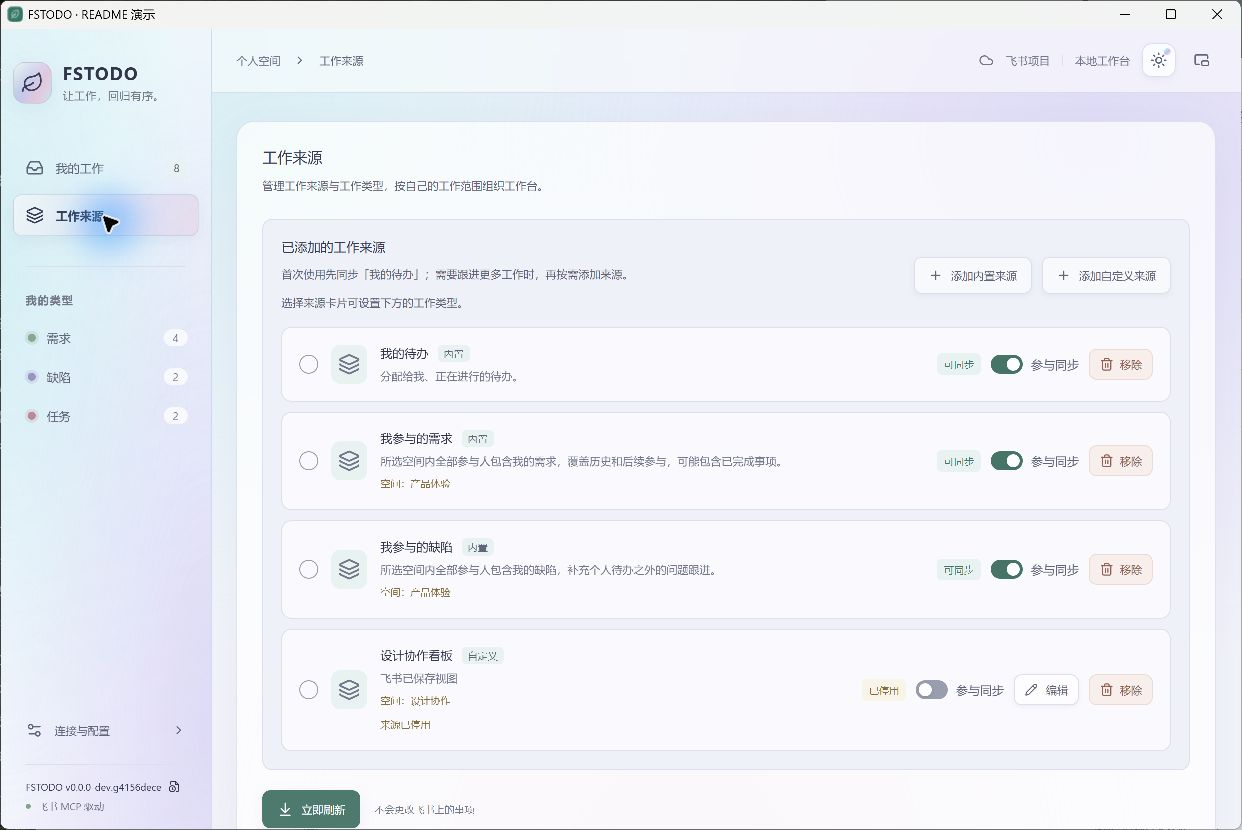
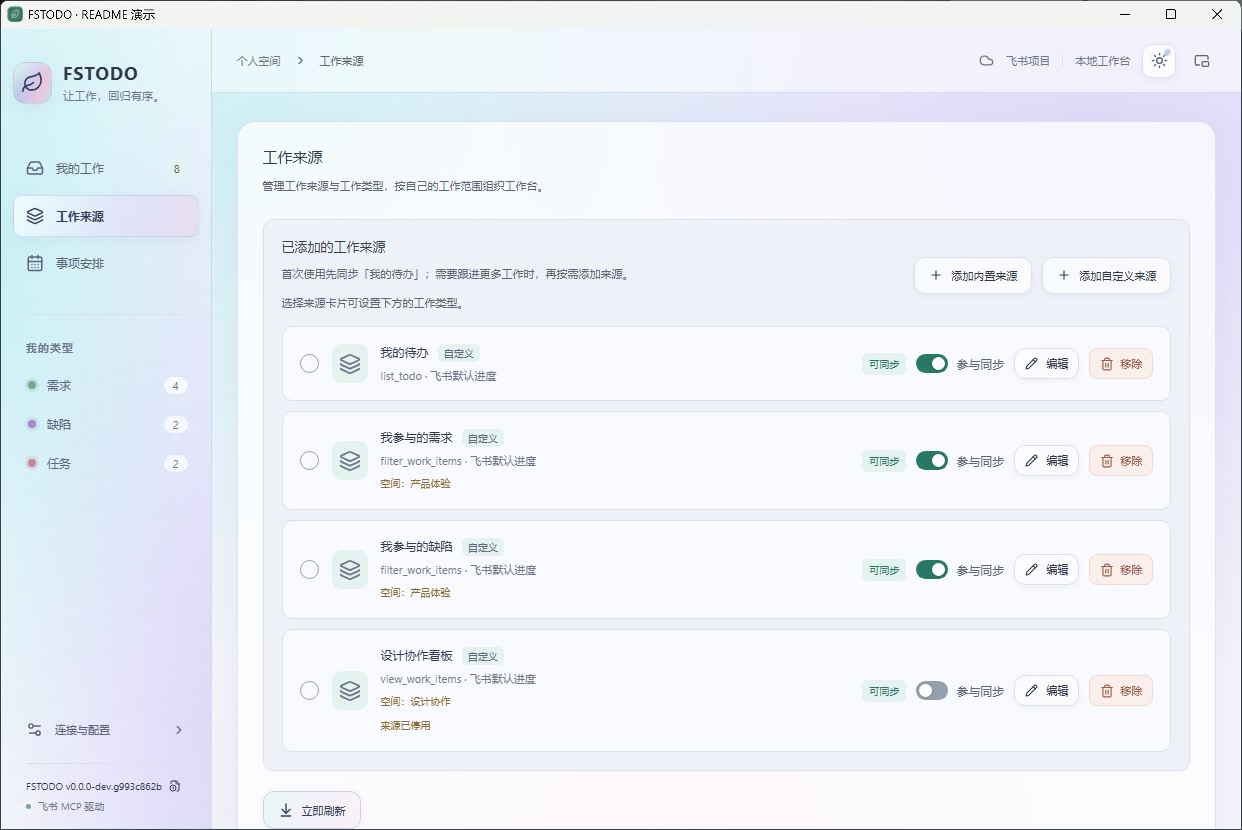
docs(README): 重点介绍事项安排工作台并更新软件演示截图
- 在首页功能总览中新增事项安排工作台，并补充筛选方案、新建事项与关联缺陷、常显字段等已交付能力说明

- 新增「事项安排：从个人待办直达节点排期」章节，重点介绍三栏排期工作台、多节点同排分轨、快捷落位及提交前二次确认

- 新增事项安排三栏工作台与排期变更核对弹窗截图，并同步更新完整工作台、工作来源与暗黑主题演示截图

diff --git a/README.md b/README.md
@@ -2,7 +2,7 @@
 
 **让工作，回归有序。**
 
-通过飞书项目 MCP，把与你有关的需求、缺陷和任务集中到本地桌面清单。少切页面，快速找到自己的工作，按需查看详情、填写字段和推进流程。
+通过飞书项目 MCP，把与你有关的需求、缺陷和任务集中到本地桌面工作台。少切页面，快速找到自己的工作，集中规划节点排期、按需查看详情、新建事项、填写字段和推进流程。
 
 [下载安装](https://github.com/lihuabeass-art/feishu-project-mcp-workbench/releases/latest) · [使用与开发文档](docs/README.md) · [产品立意](docs/design/产品定位与演进方向.md) · [MIT 开源协议](LICENSE)
 
@@ -15,16 +15,33 @@
 | 功能 | 可以做什么 |
 | --- | --- |
 | 个人工作清单 | 汇总我的待办、我参与的需求与缺陷；也可配置类型查询或飞书普通已保存视图 |
-| 搜索与筛选 | 按标题、编号、空间或项目搜索，组合空间、项目、类型、流程节点与状态筛选 |
-| 完整事项详情 | 分层查看负责人、角色、业务字段、正文、链接和图片；图片可缩放、拖动预览 |
+| 事项安排工作台 | 从已启用来源读取事项与节点排期，提供待排与跨周池、单周／双周多节点甘特日历、右侧排期检查器与提交前差异核对 |
+| 搜索与筛选方案 | 按标题、编号、空间或项目搜索，组合空间、项目、类型、流程节点与状态筛选；支持保存个人筛选方案并设为默认打开 |
+| 完整事项详情 | 分层查看负责人、角色、业务字段、正文、链接和图片；支持配置详情常显字段、一键打开飞书原页面及图片缩放拖动预览 |
+| 流程与字段填写 | 根据远端配置显示可用动作与表单（含富文本图文编辑），支持本机草稿、提交前完整核对、写后远端回读核验 |
+| 新建事项与关联缺陷 | 按已启用来源与类型动态加载创建表单，支持需求详情直接新建关联缺陷、本机持久草稿与未决创建记录核验 |
 | 手动与自动同步 | 缓存先展示，后台按来源检查；网络或接口失败时保留已有数据并支持重试 |
-| 流程与字段填写 | 根据远端配置显示可用动作与表单，支持本机草稿、提交前完整核对、写后远端回读核验 |
-| 工作类型管理 | 发现类型、按来源选择同步范围、自定义本机别名、隐藏及调整显示顺序 |
-| 清单小窗 | 同一窗口切换到紧凑清单，与完整模式共用筛选，支持置顶、详情与窗口位置恢复 |
+| 工作类型管理 | 发现类型、按来源选择同步范围与允许新建范围、自定义本机别名、隐藏及调整显示顺序 |
+| 清单小窗 | 同一窗口切换到紧凑清单，与完整模式共用筛选与新建入口，支持置顶、详情与窗口位置恢复 |
 | 外观与桌面 | 日间、暗黑、跟随系统；经典绿意与珍珠全息；提供跟随虚拟桌面设置 |
 | 完整包更新 | 自动检查 GitHub Releases，后台下载并验证签名，准备好后提示，经你确认重启安装；可关闭自动更新，当前版本记录可离线查看 |
 
 实际数据与操作权限由飞书项目决定。流程操作会再次核对云端状态；写入结果不确定时保留草稿，先回读确认，避免重复提交。支持的字段与限制见[节点填写与草稿](backend/docs/节点填写与草稿.md)和[写侧验收手册](backend/docs/写侧验收手册.md)。
+
+## 事项安排：从个人待办直达节点排期
+
+不用逐条点开飞书事项找排期弹窗，「事项安排」将已启用来源中的待办与参与事项汇总到同一张排期工作台，集中完成查看、规划、核对与同步：
+
+- **三栏排期工作台**：左侧集中管理「待排期」与「其他周已排」节点（支持一键收起释放视野），中部提供单周 7 天／双周 14 天甘特时间轴，右侧常驻「排期检查器」，支持按来源、空间、类型筛选及「仅看可排期」过滤。
+- **多节点同排与流转状态区分**：同一事项下本人的多个节点自动合并同行展示、重叠日期自动分轨；清晰区分当前可拖拽改期的进行中节点与只读的「已流转」历史节点，按流程必填配置自动过滤无需新排的无日期节点及已结束、状态流事项。
+- **拖拽设期与自然日快捷落位**：待排卡片可直接点击「今天 / 今明 / 本周」一键落位或拖入日历设期，新增草稿拖回左侧即可撤回；右侧检查器支持「今天、今明两天、本周内、排到下周、顺延 +1 天」快捷预设、自然日区间选择与一键打开飞书事项。
+- **我的排期与按人查看**：应用启动后台静默预加载本人排期并跨页签复用会话；切换「按人查看」时按需读取团队成员排期并补全人员实名与头像。
+
+![事项安排三栏工作台](docs/images/schedule-holographic.png)
+
+本地改期先保存为会话草稿，未同步离开时自动弹层保护。点击「核对并同步」后，二次确认弹窗按 **本次新增**、**本次修改**、**沿用云端** 分类展示全部节点最终生效值；对已修改节点清晰对比「云端当前值 → 本次提交值」，实际请求仅提交发生变更的差异节点：
+
+![核对排期变更并同步](docs/images/schedule-review-holographic.png)
 
 ## 从完整工作台，到桌边小清单
 
